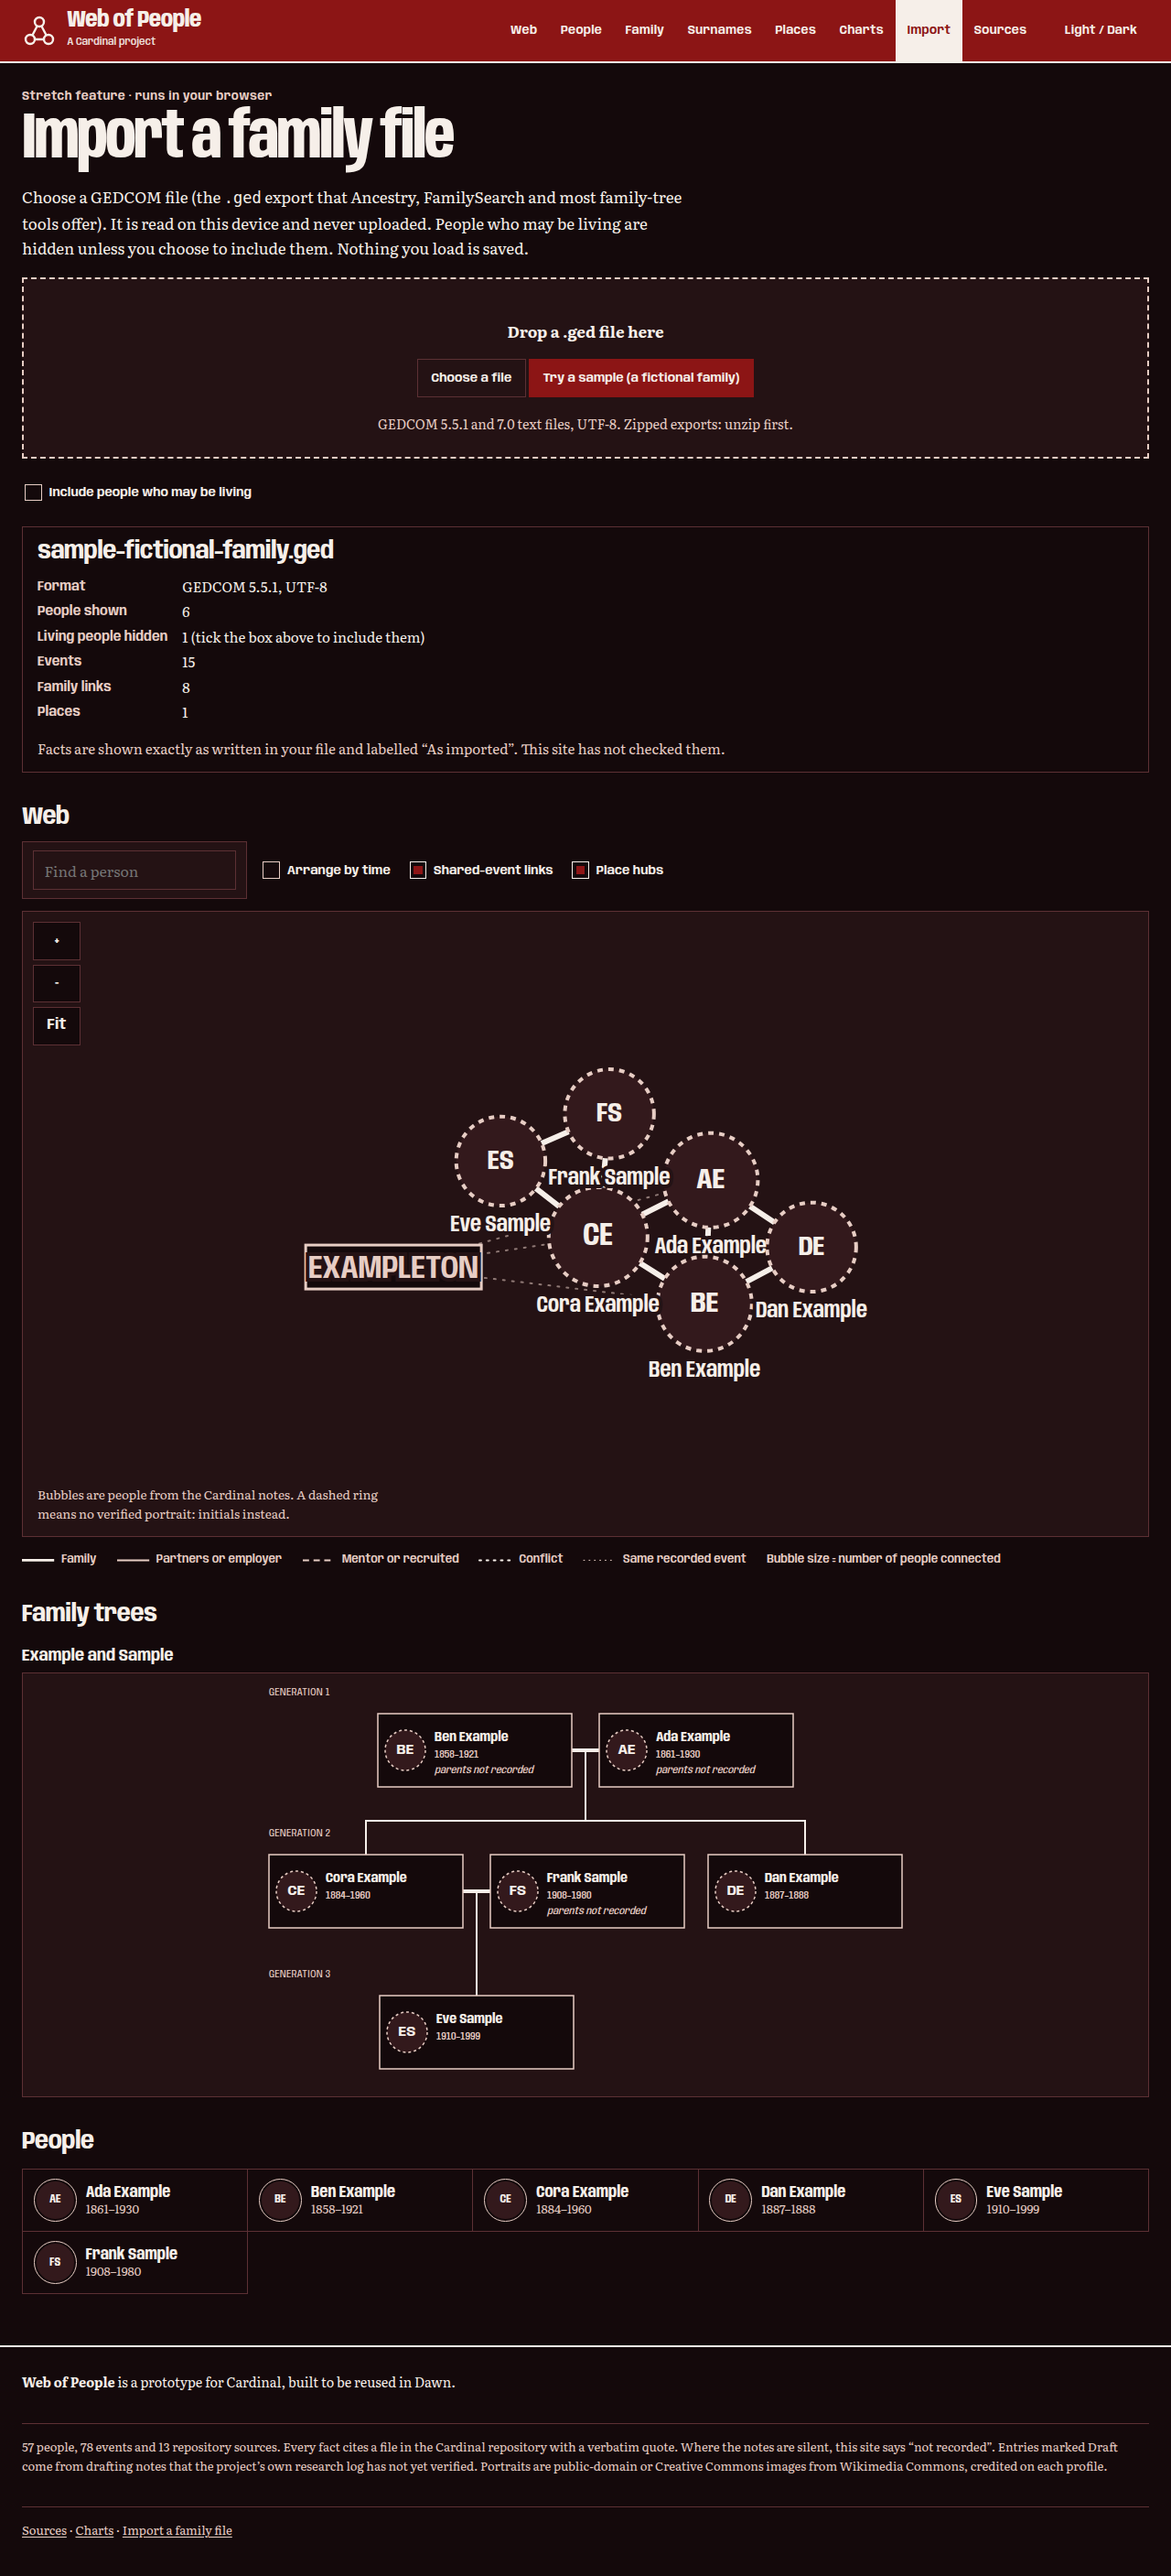
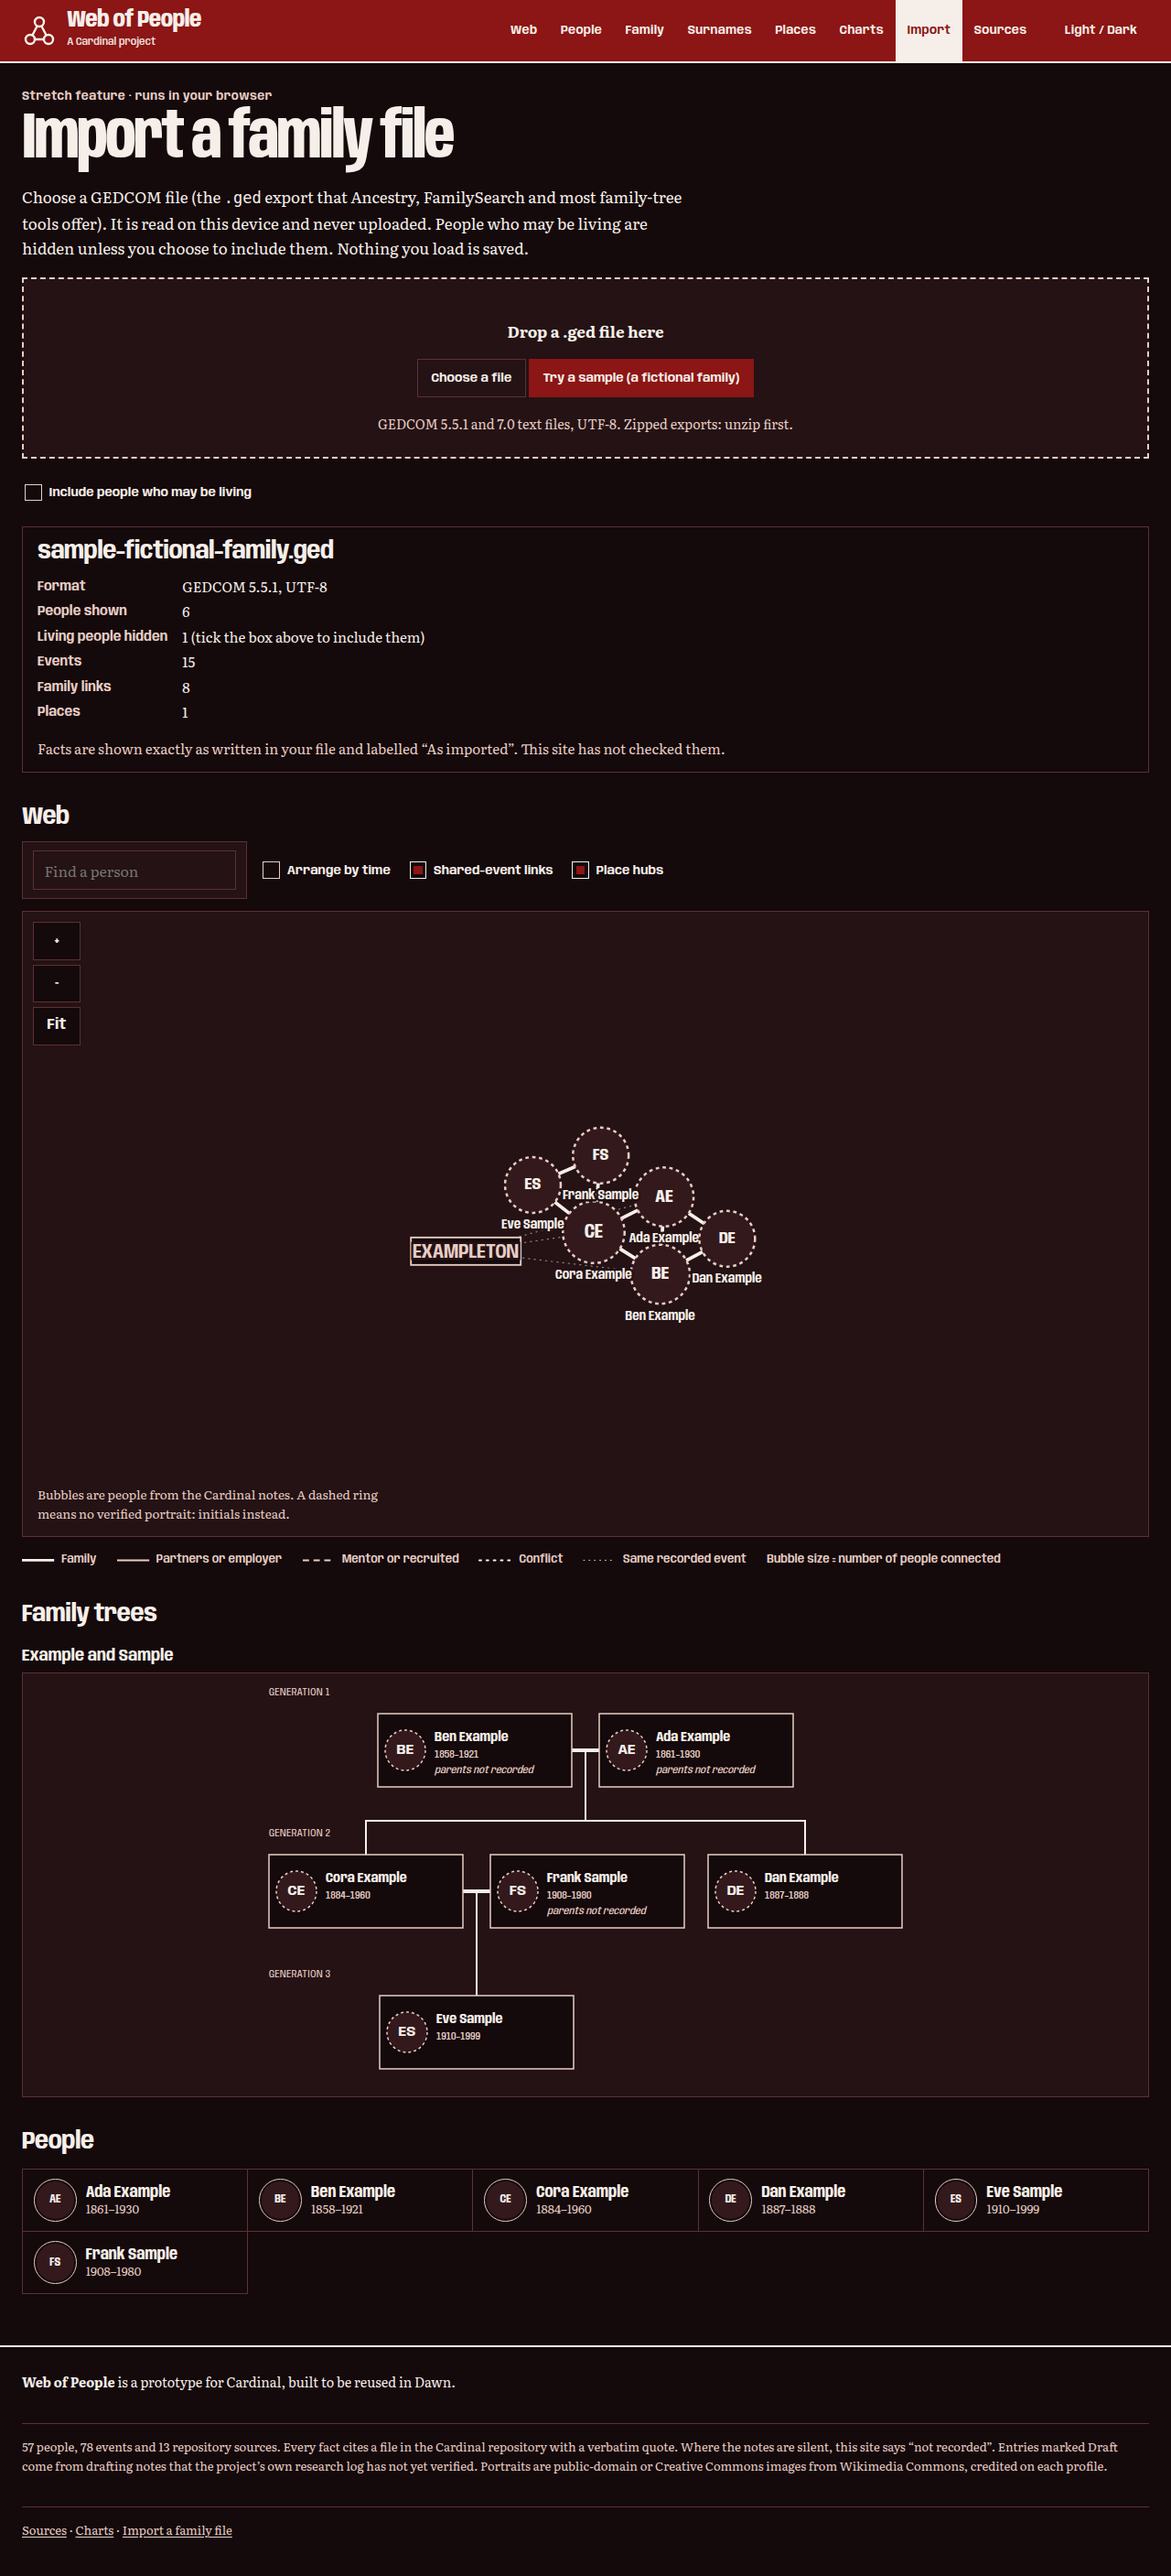
Web of People: cap fit zoom for small graphs, refresh screenshots

Changed region(s): [[0.25, 0.4019, 0.75, 0.5565]]

diff --git a/apps/web-of-people/src/lib/graph.ts b/apps/web-of-people/src/lib/graph.ts
@@ -482,7 +482,7 @@ export function mountWeb(root: HTMLElement, opts: WebOptions): WebHandle {
       y0 = Math.min(y0, n.y! - n.r - 4);
       y1 = Math.max(y1, n.y! + n.r + 20);
     }
-    const k = Math.min(2, 0.92 * Math.min(w / (x1 - x0), h / (y1 - y0)));
+    const k = Math.min(1.25, 0.92 * Math.min(w / (x1 - x0), h / (y1 - y0)));
     const t = zoomIdentity.translate(w / 2 - (k * (x0 + x1)) / 2, h / 2 - (k * (y0 + y1)) / 2).scale(k);
     svg.call(zb.transform, t);
     userZoomed = false;
